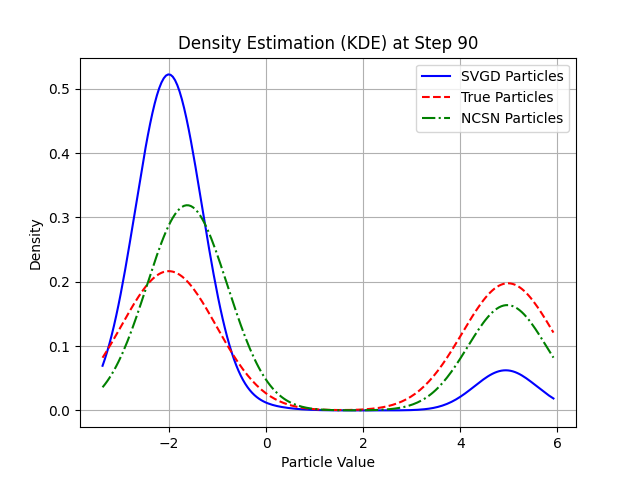
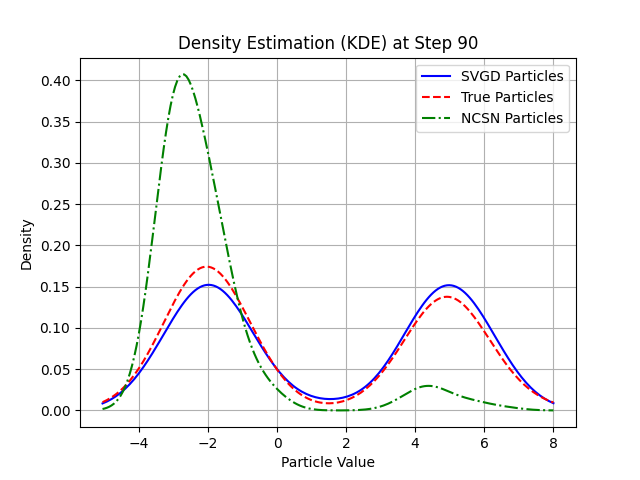
FIX: scaling kernel and plots size

diff --git a/main.py b/main.py
@@ -1,6 +1,7 @@
 import os
 import torch
 import matplotlib.pyplot as plt
+import numpy as np
 from torch.distributions import Normal, Categorical, Independent
 from torch.distributions.mixture_same_family import MixtureSameFamily
 from models import SVGD, NCSN, MLP2D
@@ -41,15 +42,31 @@ gen_SVGD_samples = gen_SVGD_samples.detach().numpy()
 # Create 'Figures' directory if not exists
 os.makedirs('Figures', exist_ok=True)
 
+# Determine global axis limits based on true_samples, hist_NCSN, and hist_SVGD
+all_samples = np.concatenate([
+    true_samples,
+    hist_NCSN.reshape(-1, 2),
+    hist_SVGD.reshape(-1, 2).detach().numpy()
+], axis=0)
+
+x_min, x_max = np.min(all_samples[:, 0]), np.max(all_samples[:, 0])
+y_min, y_max = np.min(all_samples[:, 1]), np.max(all_samples[:, 1])
+
 # Save scatter plots for every 10th iteration
 for i in range(0, hist_SVGD.shape[0], 10):
-    fig, ax = plt.subplots()
+    fig, ax = plt.subplots(figsize=(8, 6))
     ax.scatter(true_samples[:, 0], true_samples[:, 1], alpha=0.5, marker='o', s=5)
     ax.scatter(hist_NCSN[i, :, 0], hist_NCSN[i, :, 1], alpha=0.5, marker='o', s=5)
     ax.scatter(hist_SVGD[i, :, 0].detach().numpy(), hist_SVGD[i, :, 1].detach().numpy(), alpha=0.5, marker='o', s=5)
+
+    # Set the same axis limits for each plot
+    ax.set_xlim(x_min, x_max)
+    ax.set_ylim(y_min, y_max)
+
     ax.set_aspect('equal', adjustable='box')
     ax.set_title("True and generated samples")
     ax.legend(['True samples', 'NCSN samples', 'SVGD samples'])
+
     fig.savefig(f'Figures/plot_{i}.png')
     plt.close(fig)
 

diff --git a/models.py b/models.py
@@ -27,7 +27,7 @@ class SVGD:
         h = torch.median(squared_diff)
         h_scaled = h / np.log(n)
 
-        return torch.exp(-D / h_scaled)
+        return torch.exp(-D /(2*h_scaled))
 
     def sample(self, P, n=250, d=2):
         """
